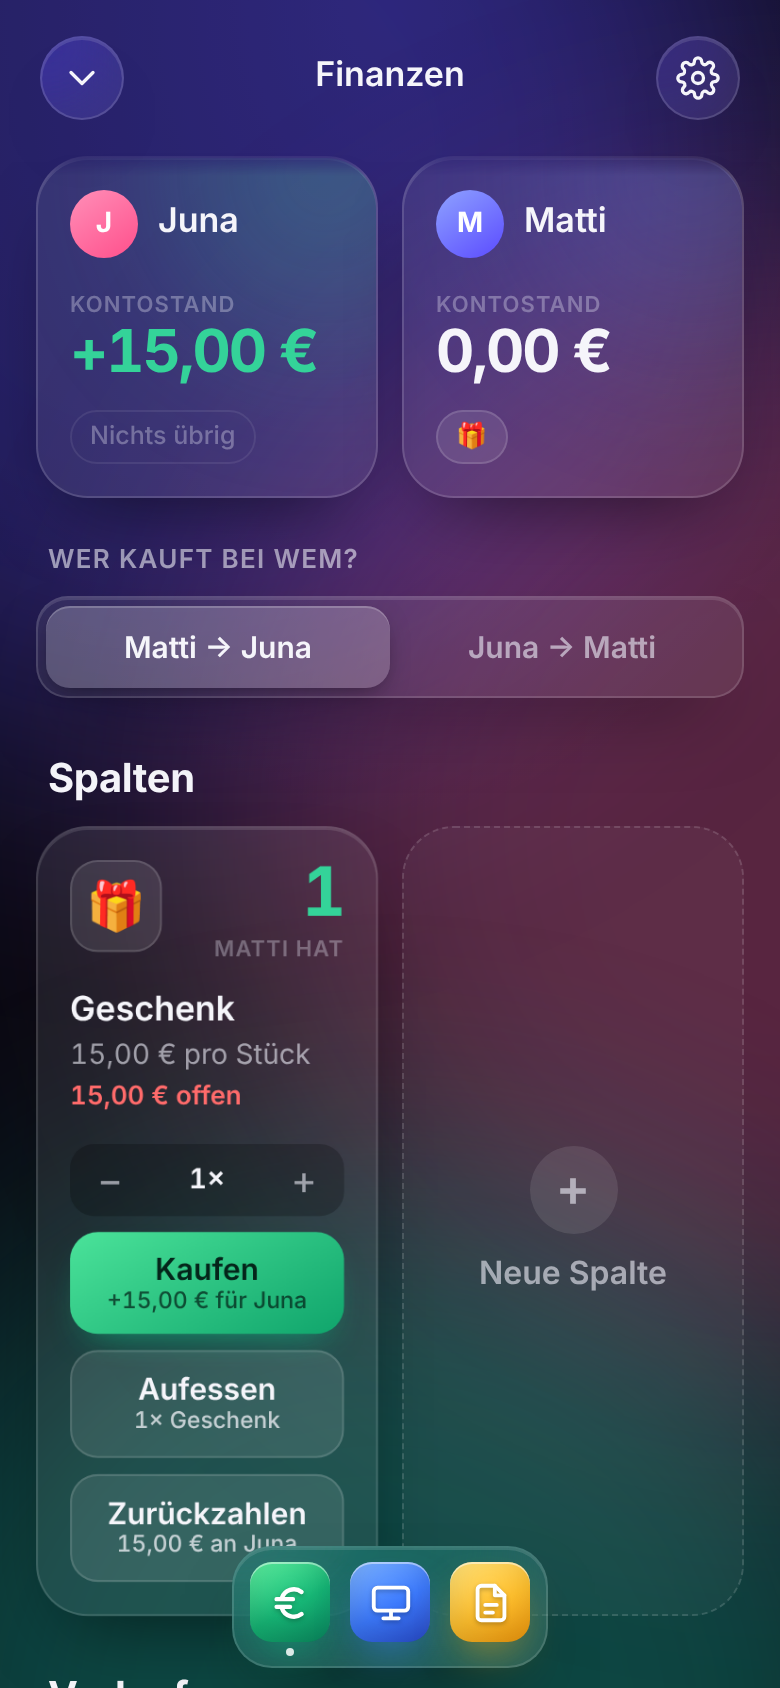
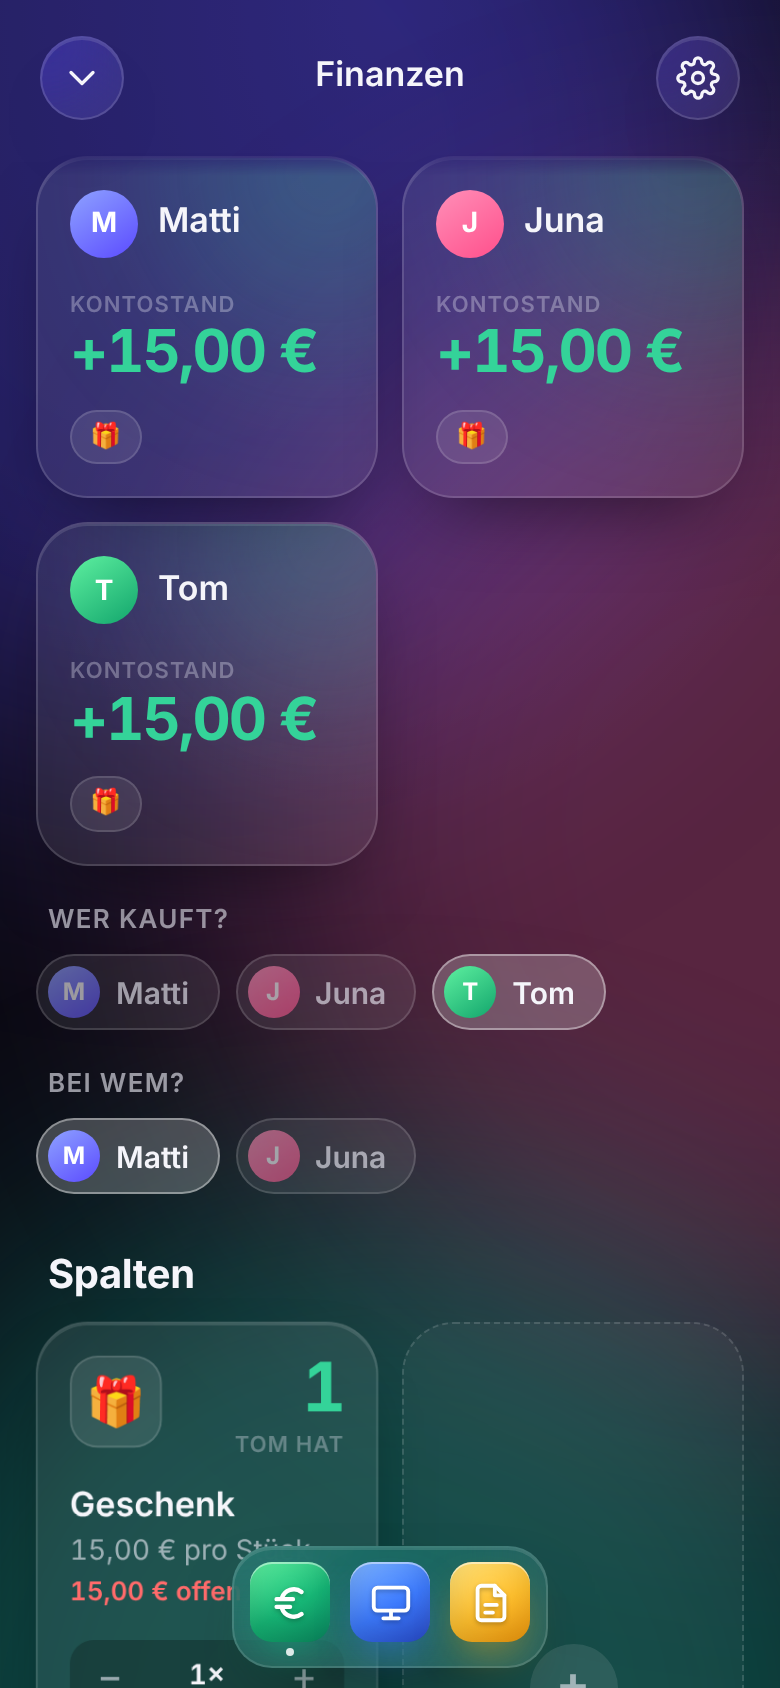
Beliebig viele Personen: hinzufügen, umbenennen, löschen; Käufer und Verkäufer wählbar
Claude-Session: https://claude.ai/code/session_01HP4ZGYUmZQyzGZFQVh1CYh

diff --git a/app.js b/app.js
@@ -9,17 +9,24 @@
 
   const uid = () => Date.now().toString(36) + Math.random().toString(36).slice(2, 7);
   const defaults = () => ({
-    me: 'Matti',
-    partner: 'Juna',
+    people: [{ id: 'me', name: 'Matti' }, { id: 'partner', name: 'Juna' }],
+    buyer: 'me',      // wer gerade kauft
+    seller: 'partner', // bei wem gekauft wird
     items: [{ id: uid(), name: 'Geschenk', price: 15, emoji: '🎁' }],
     notes: [],
-    payer: 'me', // wer gerade zahlt: 'me' oder 'partner'
-    tx: [] // { id, itemId, from (wer handelt), type: 'buy' | 'eat' | 'pay', qty, price, ts }
+    tx: [] // { id, itemId, from (wer handelt), to (bei wem), type: 'buy' | 'eat' | 'pay', qty, price, ts }
   });
 
   let state;
   try { state = JSON.parse(localStorage.getItem(KEY)) || defaults(); } catch { state = defaults(); }
   state.tx = (state.tx || []).filter((t) => t.type); // alte Buchungen ohne Art verwerfen
+  // Ältere Stände mit genau zwei festen Personen übernehmen
+  if (!Array.isArray(state.people) || state.people.length < 2) {
+    state.people = [{ id: 'me', name: state.me || 'Matti' }, { id: 'partner', name: state.partner || 'Juna' }];
+    state.buyer = state.payer === 'partner' ? 'partner' : 'me';
+    delete state.me; delete state.partner; delete state.payer;
+  }
+  state.tx.forEach((t) => { if (!t.to) t.to = t.from === 'me' ? 'partner' : 'me'; });
   if (!Array.isArray(state.notes)) state.notes = []; // { id, text, ts }
   const save = () => { try { localStorage.setItem(KEY, JSON.stringify(state)); } catch { /* privat/voll */ } };
 
@@ -30,6 +37,7 @@
   let pickerFor = null;    // offene Emoji-Auswahl
   let confirmDel = null;   // Spalte, deren Löschen bestätigt werden muss
   let confirmReset = false;
+  let confirmDelPerson = null;
   let editing = null;      // offene Notiz
   let confirmNoteDel = false;
 
@@ -39,18 +47,27 @@
   const money = (n) => eur.format(n).replace('-', '−');
   const signed = (n) => (n > 0 ? '+' : n < 0 ? '−' : '') + Math.abs(n);
   const initial = (s) => (s.trim()[0] || '?').toUpperCase();
-  const name = (s, fallback) => s.trim() || fallback;
 
-  const other = (who) => (who === 'me' ? 'partner' : 'me');
-  const who = (key) => name(state[key], key === 'me' ? 'Matti' : 'Juna');
-  const payer = () => (state.payer === 'partner' ? 'partner' : 'me');
-  const sumTx = (itemId, key, type) => state.tx.reduce((sum, t) => sum + (t.itemId === itemId && t.from === key && t.type === type ? t.qty : 0), 0);
-  // Stücke, die eine Person gekauft und noch nicht aufgegessen hat
+  const COLORS = [['#8ea2ff', '#5b4bff'], ['#ff8fb8', '#ff4f8b'], ['#5ef0a0', '#12a56c'], ['#ffd36b', '#f59a0b'], ['#7fe3ff', '#1e9bd8'], ['#d9a2ff', '#9b4bff'], ['#ff9d7a', '#f0562e'], ['#b8c4d6', '#66758c']];
+  const round2 = (n) => Math.round(n * 100) / 100;
+  const person = (id) => state.people.find((p) => p.id === id);
+  const who = (id) => { const p = person(id); return (p && p.name.trim()) || 'Person ' + (state.people.indexOf(p) + 1); };
+  const avatar = (id, cls = '') => {
+    const c = COLORS[Math.max(0, state.people.indexOf(person(id))) % COLORS.length];
+    return `<div class="avatar ${cls}" style="background:linear-gradient(145deg, ${c[0]}, ${c[1]})">${esc(who(id)[0].toUpperCase())}</div>`;
+  };
+  const buyer = () => (person(state.buyer) ? state.buyer : state.people[0].id);
+  const seller = () => { const b = buyer(); return person(state.seller) && state.seller !== b ? state.seller : state.people.find((p) => p.id !== b).id; };
+  const sumTx = (itemId, from, type, to) => state.tx.reduce((sum, t) => sum + (t.itemId === itemId && t.from === from && t.type === type && (!to || t.to === to) ? t.qty : 0), 0);
+  // Stücke, die eine Person gekauft und noch nicht aufgegessen hat (egal bei wem)
   const held = (itemId, key) => sumTx(itemId, key, 'buy') - sumTx(itemId, key, 'eat');
-  // Stücke, die eine Person gekauft, aber noch nicht bezahlt hat (negativ = zu viel bezahlt)
-  const unpaid = (itemId, key) => sumTx(itemId, key, 'buy') - sumTx(itemId, key, 'pay');
-  // Kontostand einer Person: was die andere Person bei ihr gekauft und noch nicht zurückgezahlt hat
-  const balance = (key) => Math.round(state.items.reduce((sum, it) => sum + unpaid(it.id, other(key)) * it.price, 0) * 100) / 100;
+  // Stücke, die jemand bei einer Person gekauft, aber noch nicht bezahlt hat (negativ = zu viel bezahlt)
+  const unpaid = (itemId, from, to) => sumTx(itemId, from, 'buy', to) - sumTx(itemId, from, 'pay', to);
+  const pairDebt = (from, to) => state.items.reduce((sum, it) => sum + unpaid(it.id, from, to) * it.price, 0);
+  // Kontostand einer Person: was alle anderen bei ihr gekauft und noch nicht zurückgezahlt haben
+  const balance = (key) => round2(state.people.reduce((sum, p) => sum + (p.id === key ? 0 : pairDebt(p.id, key)), 0));
+  // Geld, das a an b schuldet
+  const owes = (a, b) => round2(Math.max(0, pairDebt(a, b)) + Math.max(0, -pairDebt(b, a)));
   const amount = (b) => (b > 0 ? '+' : '') + money(b);
   const tone = (b) => (b > 0 ? 'pos' : b < 0 ? 'neg' : 'zero');
 
@@ -59,19 +76,19 @@
     const c = held(it.id, key);
     return c > 0 ? `<span class="chip">${esc(it.emoji)}${c > 1 ? ' ×' + c : ''}</span>` : '';
   }).join('');
-  // Geld, das eine Person der anderen schuldet
-  const debt = (key) => Math.round((Math.max(0, balance(other(key))) + Math.max(0, -balance(key))) * 100) / 100;
 
   function renderHome() {
     $('widget').innerHTML = `
       <div class="w-top"><span class="mini">${EURO_SVG}</span>Finanzen</div>
-      <div class="w-rows">${['me', 'partner'].map((k) => {
-        const d = debt(k), chips = heldChips(k);
+      <div class="w-rows">${state.people.map((p) => {
+        const debts = state.people.filter((o) => o.id !== p.id && owes(p.id, o.id) > 0)
+          .map((o) => `<span class="chip neg"><i>${esc(who(o.id))}</i> ${money(owes(p.id, o.id))}</span>`).join('');
+        const chips = heldChips(p.id);
         return `
         <div class="w-person">
           <div class="w-row">
-            <span><b>${esc(who(k))}</b> ${d ? 'schuldet' : 'schuldet nichts'}</span>
-            ${d ? `<div class="chips"><span class="chip neg">${money(d)}</span></div>` : ''}
+            <span><b>${esc(who(p.id))}</b> ${debts ? 'schuldet' : 'schuldet nichts'}</span>
+            ${debts ? `<div class="chips">${debts}</div>` : ''}
           </div>
           ${chips ? `<div class="w-row sub"><span>hat noch</span><div class="chips">${chips}</div></div>` : ''}
         </div>`;
@@ -80,31 +97,32 @@
   }
 
   function renderAccounts() {
-    const p = payer();
+    const b = buyer(), sl = seller();
+    const pick = (action, list, on) => `<div class="pick">${list.map((p) => `
+        <button class="pchip glass ${p.id === on ? 'on' : ''}" data-action="${action}" data-k="${p.id}">${avatar(p.id, 'sm')}<span>${esc(who(p.id))}</span></button>`).join('')}
+      </div>`;
     $('hero').innerHTML = `
-      <div class="accts">${['partner', 'me'].map((k) => {
-        const b = balance(k);
-        const chips = heldChips(k);
+      <div class="accts">${state.people.map((p) => {
+        const bal = balance(p.id);
         return `
-        <article class="acct glass ${tone(b)}">
-          <div class="pair"><div class="avatar ${k === 'partner' ? 'a' : 'b'}">${esc(initial(who(k)))}</div><span>${esc(who(k))}</span></div>
+        <article class="acct glass ${tone(bal)}">
+          <div class="pair">${avatar(p.id)}<span>${esc(who(p.id))}</span></div>
           <div class="label">Kontostand</div>
-          <div class="amount">${amount(b)}</div>
-          <div class="chips">${chips || '<span class="chip none">Nichts übrig</span>'}</div>
+          <div class="amount">${amount(bal)}</div>
+          <div class="chips">${heldChips(p.id) || '<span class="chip none">Nichts übrig</span>'}</div>
         </article>`;
       }).join('')}
       </div>
-      <div class="seg-label">Wer kauft bei wem?</div>
-      <div class="seg glass" data-on="${p}">
-        <button data-action="payer" data-k="me" class="${p === 'me' ? 'on' : ''}">${esc(who('me'))} → ${esc(who('partner'))}</button>
-        <button data-action="payer" data-k="partner" class="${p === 'partner' ? 'on' : ''}">${esc(who('partner'))} → ${esc(who('me'))}</button>
-      </div>`;
+      <div class="seg-label">Wer kauft?</div>
+      ${pick('buyer', state.people, b)}
+      <div class="seg-label">Bei wem?</div>
+      ${pick('seller', state.people.filter((p) => p.id !== b), sl)}`;
   }
 
   function renderItems() {
-    const p = payer(), receiver = esc(who(other(p)));
+    const p = buyer(), sl = seller(), receiver = esc(who(sl));
     $('items').innerHTML = state.items.map((it) => {
-      const c = held(it.id, p), q = qty[it.id] || 1, open = Math.round(unpaid(it.id, p) * it.price * 100) / 100;
+      const c = held(it.id, p), q = qty[it.id] || 1, open = round2(unpaid(it.id, p, sl) * it.price);
       return `
       <article class="card glass" data-id="${it.id}">
         <div class="card-top">
@@ -130,11 +148,11 @@
   function renderHistory() {
     const byId = Object.fromEntries(state.items.map((it) => [it.id, it]));
     const fmt = new Intl.DateTimeFormat('de-DE', { day: '2-digit', month: 'short', hour: '2-digit', minute: '2-digit' });
-    const rows = state.tx.slice().reverse().filter((t) => byId[t.itemId]).slice(0, 60).map((t) => {
-      const it = byId[t.itemId], P = esc(who(t.from)), R = esc(who(other(t.from))), sum = money(t.qty * t.price);
-      const text = t.type === 'buy' ? `${P} kauft ${t.qty}× ${esc(it.name)}`
+    const rows = state.tx.slice().reverse().filter((t) => byId[t.itemId] && person(t.from) && person(t.to)).slice(0, 60).map((t) => {
+      const it = byId[t.itemId], P = esc(who(t.from)), R = esc(who(t.to)), sum = money(t.qty * t.price);
+      const text = t.type === 'buy' ? `${P} kauft ${t.qty}× ${esc(it.name)} bei ${R}`
         : t.type === 'eat' ? `${P} isst ${t.qty}× ${esc(it.name)} auf`
-        : `${P} zahlt ${sum} zurück`;
+        : `${P} zahlt ${R} ${sum} zurück`;
       const val = t.type === 'buy' ? `<div class="val pos">+${sum}</div>` : t.type === 'pay' ? `<div class="val neg">−${sum}</div>` : '';
       return `
       <div class="row" data-tx="${t.id}">
@@ -154,9 +172,15 @@
     $('settings').innerHTML = `
       <div class="group-title">Personen</div>
       <div class="group">
-        <div class="field"><label>Person 1</label><input data-person="me" value="${esc(state.me)}" placeholder="Matti" maxlength="20"></div>
-        <div class="field"><label>Person 2</label><input data-person="partner" value="${esc(state.partner)}" placeholder="Juna" maxlength="20"></div>
+        ${state.people.map((p, i) => `
+        <div class="field" data-pid="${p.id}">
+          ${avatar(p.id, 'sm')}
+          <input data-person value="${esc(p.name)}" placeholder="Person ${i + 1}" maxlength="20" aria-label="Name Person ${i + 1}">
+          ${state.people.length > 2 ? `<button class="del ${confirmDelPerson === p.id ? 'sure' : ''}" data-action="del-person" aria-label="Person löschen">${confirmDelPerson === p.id ? 'Löschen?' : TRASH_SVG}</button>` : ''}
+        </div>`).join('')}
+        <button class="linkbtn" data-action="add-person">+ Person hinzufügen</button>
       </div>
+      <p class="hint">Beim Löschen einer Person werden auch ihre Einträge entfernt.</p>
       <div class="group-title">Spalten</div>
       ${state.items.map((it) => `
       <div class="group" data-id="${it.id}" style="margin-bottom:10px">
@@ -245,15 +269,15 @@
     if (v !== 'manager') closeSheet();
     if (v !== 'notes' && editing) closeNote();
   }
-  function openSheet() { pickerFor = confirmDel = null; confirmReset = false; renderSettings(); document.body.classList.add('sheet-open'); $('sheet').setAttribute('aria-hidden', 'false'); }
+  function openSheet() { pickerFor = confirmDel = confirmDelPerson = null; confirmReset = false; renderSettings(); document.body.classList.add('sheet-open'); $('sheet').setAttribute('aria-hidden', 'false'); }
   function closeSheet() { document.activeElement && document.activeElement.blur(); document.body.classList.remove('sheet-open'); $('sheet').setAttribute('aria-hidden', 'true'); }
 
   function book(itemId, type) {
     const it = state.items.find((i) => i.id === itemId);
     if (!it) return;
     const q = qty[itemId] || 1;
-    if (type === 'eat' && held(itemId, payer()) < q) return;
-    state.tx.push({ id: uid(), itemId, from: payer(), type, qty: q, price: it.price, ts: Date.now() });
+    if (type === 'eat' && held(itemId, buyer()) < q) return;
+    state.tx.push({ id: uid(), itemId, from: buyer(), to: seller(), type, qty: q, price: it.price, ts: Date.now() });
     qty[itemId] = 1;
     commit();
     const card = document.querySelector(`.card[data-id="${itemId}"]`);
@@ -265,7 +289,23 @@
     open: () => setView('manager'),
     close: () => setView('home'),
     toggle: (el) => setView(document.body.dataset.view === el.dataset.app ? 'home' : el.dataset.app),
-    payer: (el) => { state.payer = el.dataset.k; commit(); },
+    buyer: (el) => { const prev = buyer(), sl = seller(); state.buyer = el.dataset.k; state.seller = sl === state.buyer ? prev : sl; commit(); },
+    seller: (el) => { state.seller = el.dataset.k; commit(); },
+    'add-person': () => {
+      const p = { id: uid(), name: '' };
+      state.people.push(p);
+      commit(); renderSettings();
+      const input = document.querySelector(`#settings [data-pid="${p.id}"] input`);
+      if (input) { input.scrollIntoView({ block: 'center' }); input.focus(); }
+    },
+    'del-person': (el) => {
+      const id = el.closest('[data-pid]').dataset.pid;
+      if (state.people.length <= 2) return;
+      if (confirmDelPerson !== id) { confirmDelPerson = id; renderSettings(); return; }
+      state.people = state.people.filter((p) => p.id !== id);
+      state.tx = state.tx.filter((t) => t.from !== id && t.to !== id);
+      confirmDelPerson = null; commit(); renderSettings();
+    },
     settings: openSheet,
     'settings-close': closeSheet,
     qty: (el, id) => { qty[id] = Math.min(99, Math.max(1, (qty[id] || 1) + Number(el.dataset.d))); renderItems(); },
@@ -314,7 +354,11 @@
   // Einstellungen: live übernehmen, ohne das Eingabefeld neu zu zeichnen
   $('settings').addEventListener('input', (e) => {
     const el = e.target;
-    if (el.dataset.person) state[el.dataset.person] = el.value;
+    if (el.dataset.person !== undefined) {
+      const id = el.closest('[data-pid]').dataset.pid;
+      person(id).name = el.value;
+      el.previousElementSibling.textContent = who(id)[0].toUpperCase();
+    }
     else if (el.dataset.field) {
       const it = state.items.find((i) => i.id === el.closest('[data-id]').dataset.id);
       if (el.dataset.field === 'name') it.name = el.value;

diff --git a/styles.css b/styles.css
@@ -278,3 +278,17 @@ body.sheet-open .sheet { transform: none; }
 .widget .w-person { display: grid; gap: 6px; }
 .widget .w-row.sub { font-size: 14px; color: var(--faint); }
 .widget .w-row.sub .chip { font-size: 14px; padding: 3px 9px; }
+
+/* ---------- Mehrere Personen ---------- */
+.avatar.sm { width: 26px; height: 26px; font-size: 12px; border: 0; margin: 0; flex: none; }
+.pick { display: flex; flex-wrap: wrap; gap: 8px; }
+.pchip { display: flex; align-items: center; gap: 8px; max-width: 100%; padding: 5px 14px 5px 5px; border-radius: 999px; font-weight: 600; font-size: 15px; color: var(--muted); box-shadow: none; transition: background .25s, color .25s, transform .2s var(--ease); }
+.pchip span { white-space: nowrap; overflow: hidden; text-overflow: ellipsis; }
+.pchip .avatar { opacity: .55; transition: opacity .25s; }
+.pchip.on { background: rgba(255, 255, 255, .22); border-color: rgba(255, 255, 255, .4); color: var(--text); }
+.pchip.on .avatar { opacity: 1; }
+.pchip:active { transform: scale(.94); }
+.seg-label { margin-top: 18px; }
+.widget .chip i { font-style: normal; color: var(--text); opacity: .85; }
+#home { overflow-y: auto; padding-bottom: calc(var(--safe-b) + 90px); scrollbar-width: none; }
+#home::-webkit-scrollbar { display: none; }
